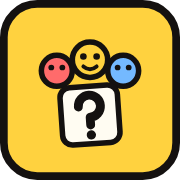
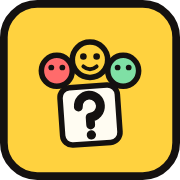
Tira o azul da paleta
O azul saiu de tudo: era a cor da seleção nos filtros, do dropdown de países,
do contorno de foco e do recorte "Europa" nas cartas.

Entraram rosa e lilás pra fechar os seis tons de recorte, que agora são
amarelo, rosa, laranja, coral, verde e lilás. Seleção passou a ser verde,
foco virou coral, e o brilho de campo focado virou amarelo.

A marca ainda vai mudar — o desenho atual não agradou e estou refazendo — mas
o azul dela já saiu junto pra não sobrar nada azul no ar.

Claude-Session: https://claude.ai/code/session_01GxTvDuxYwcvTVE5494XKjr

Changed region(s): [[0.6111, 0.3056, 0.7778, 0.4722]]

diff --git a/comum.css b/comum.css
@@ -13,8 +13,8 @@
 :root{
   color-scheme:light;
   --preto:#141110; --papel:#FFFCF2; --branco:#fff;
-  --amarelo:#FFD23F; --coral:#FF6B6B; --azul:#74B9FF;
-  --verde:#7FE0A5; --laranja:#FFA552; --lilas:#B8A9FA;
+  --amarelo:#FFD23F; --coral:#FF6B6B; --laranja:#FFA552;
+  --verde:#7FE0A5; --rosa:#FF9CC8; --lilas:#C9A7F5;
   --cinza:#6F6960;
   --display:"Gabarito",system-ui,sans-serif;
   --ui:"Space Grotesk",system-ui,-apple-system,sans-serif;
@@ -63,7 +63,7 @@ button,.botao{font:inherit;font-family:var(--display);font-weight:800;color:var(
   transition:transform .08s ease,box-shadow .08s ease,background .12s ease}
 button:hover,.botao:hover{transform:translate(-1px,-1px);box-shadow:5px 5px 0 var(--preto)}
 button:active,.botao:active{transform:translate(4px,4px);box-shadow:0 0 0 var(--preto)}
-button:focus-visible,.botao:focus-visible{outline:3px solid var(--azul);outline-offset:3px}
+button:focus-visible,.botao:focus-visible{outline:3px solid var(--coral);outline-offset:3px}
 button:disabled{opacity:.4;cursor:not-allowed;box-shadow:2px 2px 0 var(--preto)}
 button.principal{width:100%;padding:17px;font-size:19px;background:var(--amarelo);
   box-shadow:var(--sombra-g)}
@@ -72,11 +72,11 @@ button.principal:active{transform:translate(8px,8px);box-shadow:0 0 0 var(--pret
 button.mini{padding:8px 12px;font-size:13.5px;border-radius:9px;box-shadow:3px 3px 0 var(--preto)}
 button.mini:active{transform:translate(3px,3px);box-shadow:0 0 0 var(--preto)}
 button.perigo{background:var(--coral)}
-button.on{background:var(--azul)}
+button.on{background:var(--verde)}
 input,select{font:inherit;font-weight:500;color:var(--preto);background:var(--branco);
   border:var(--b);border-radius:11px;padding:13px;width:100%}
 input::placeholder{color:#9c948a}
-input:focus,select:focus{outline:none;box-shadow:inset 3px 3px 0 rgba(116,185,255,.4)}
+input:focus,select:focus{outline:none;box-shadow:inset 3px 3px 0 rgba(255,210,63,.55)}
 label{font-size:12.5px;font-weight:700;color:var(--cinza);display:block;margin-bottom:6px}
 
 /* ---------------------------------------------------------------- feedback */

diff --git a/top10/index.html b/top10/index.html
@@ -77,7 +77,7 @@
 /* dropdown de países */
 .sugestoes{display:flex;flex-wrap:wrap;gap:7px}
 .sug{font-family:var(--display);font-weight:800;font-size:14.5px;padding:10px 13px;
-  border:2.5px solid var(--preto);border-radius:10px;background:var(--azul);
+  border:2.5px solid var(--preto);border-radius:10px;background:var(--verde);
   box-shadow:3px 3px 0 var(--preto)}
 .sug:active{transform:translate(3px,3px);box-shadow:0 0 0 var(--preto)}
 .sug.usado{background:#EDE9E2;color:var(--cinza);box-shadow:1px 1px 0 var(--preto);
@@ -107,7 +107,7 @@
 <!-- ------------------------------------------------ configuração -->
 <section id="tela-setup" class="tela on">
   <div class="carta" style="transform:rotate(-1.1deg)">
-    <div class="faixa" style="--cor:var(--azul)"><span>Jogos da Turma</span><span>2 a 10 pessoas</span></div>
+    <div class="faixa" style="--cor:var(--coral)"><span>Jogos da Turma</span><span>2 a 10 pessoas</span></div>
     <div class="corpo" style="text-align:center;padding:22px 18px 20px">
       <p class="marca" style="font-size:clamp(60px,19vw,88px)">TOP 10</p>
       <p style="margin-top:14px;font-weight:500;font-size:15px;line-height:1.45;max-width:32ch;margin-inline:auto">
@@ -509,7 +509,7 @@ function desenharRodada(){
   $("#progresso").textContent = S.achados.size === 10
     ? "top 10 completo" : "faltam " + (10 - S.achados.size);
   // cada recorte tem sua cor: o baralho não parece a mesma carta 248 vezes
-  const CORES = {"mundo":"--amarelo", "Europa":"--azul", "África":"--laranja",
+  const CORES = {"mundo":"--amarelo", "Europa":"--rosa", "África":"--laranja",
                  "Ásia":"--coral", "Américas":"--verde", "União Europeia":"--lilas"};
   $("#carta-jogo").style.setProperty("--cor",
     `var(${CORES[c.escopo] || "--amarelo"})`);

diff --git a/index.html b/index.html
@@ -19,7 +19,7 @@
   transition:transform .1s ease,box-shadow .1s ease}
 a.jogo:hover{transform:translate(-2px,-2px);box-shadow:11px 11px 0 var(--preto)}
 a.jogo:active{transform:translate(4px,4px);box-shadow:2px 2px 0 var(--preto)}
-a.jogo:focus-visible{outline:3px solid var(--azul);outline-offset:4px}
+a.jogo:focus-visible{outline:3px solid var(--coral);outline-offset:4px}
 .jogo:nth-child(odd){transform:rotate(-.6deg)}
 .jogo:nth-child(even){transform:rotate(.5deg)}
 .emoji{font-size:20px;line-height:1}

diff --git a/CLAUDE.md b/CLAUDE.md
@@ -47,7 +47,7 @@ rode `python3 atualizar_jogos.py` de novo.
   "tagline": "Uma frase dizendo do que se trata.",
   "descricao": "Um parágrafo curto: como joga e de onde vem o conteúdo.",
   "emoji": "🎭",
-  "cor": "azul",
+  "cor": "verde",
   "jogadores": "4 a 12",
   "duracao": "30 min",
   "precisa": "um celular na mesa",
@@ -56,7 +56,7 @@ rode `python3 atualizar_jogos.py` de novo.
 ```
 
 `slug` tem que ser igual ao nome da pasta. `cor` é uma das do `comum.css`:
-`amarelo`, `coral`, `azul`, `verde`, `laranja`, `lilas` — escolha uma que
+`amarelo`, `coral`, `laranja`, `verde`, `rosa`, `lilas` — escolha uma que
 outro jogo ainda não usou. `status` é `ideia`, `construindo` ou `pronto`;
 só `pronto` fica clicável na base, e só passa na validação se existir
 `<slug>/index.html`.
